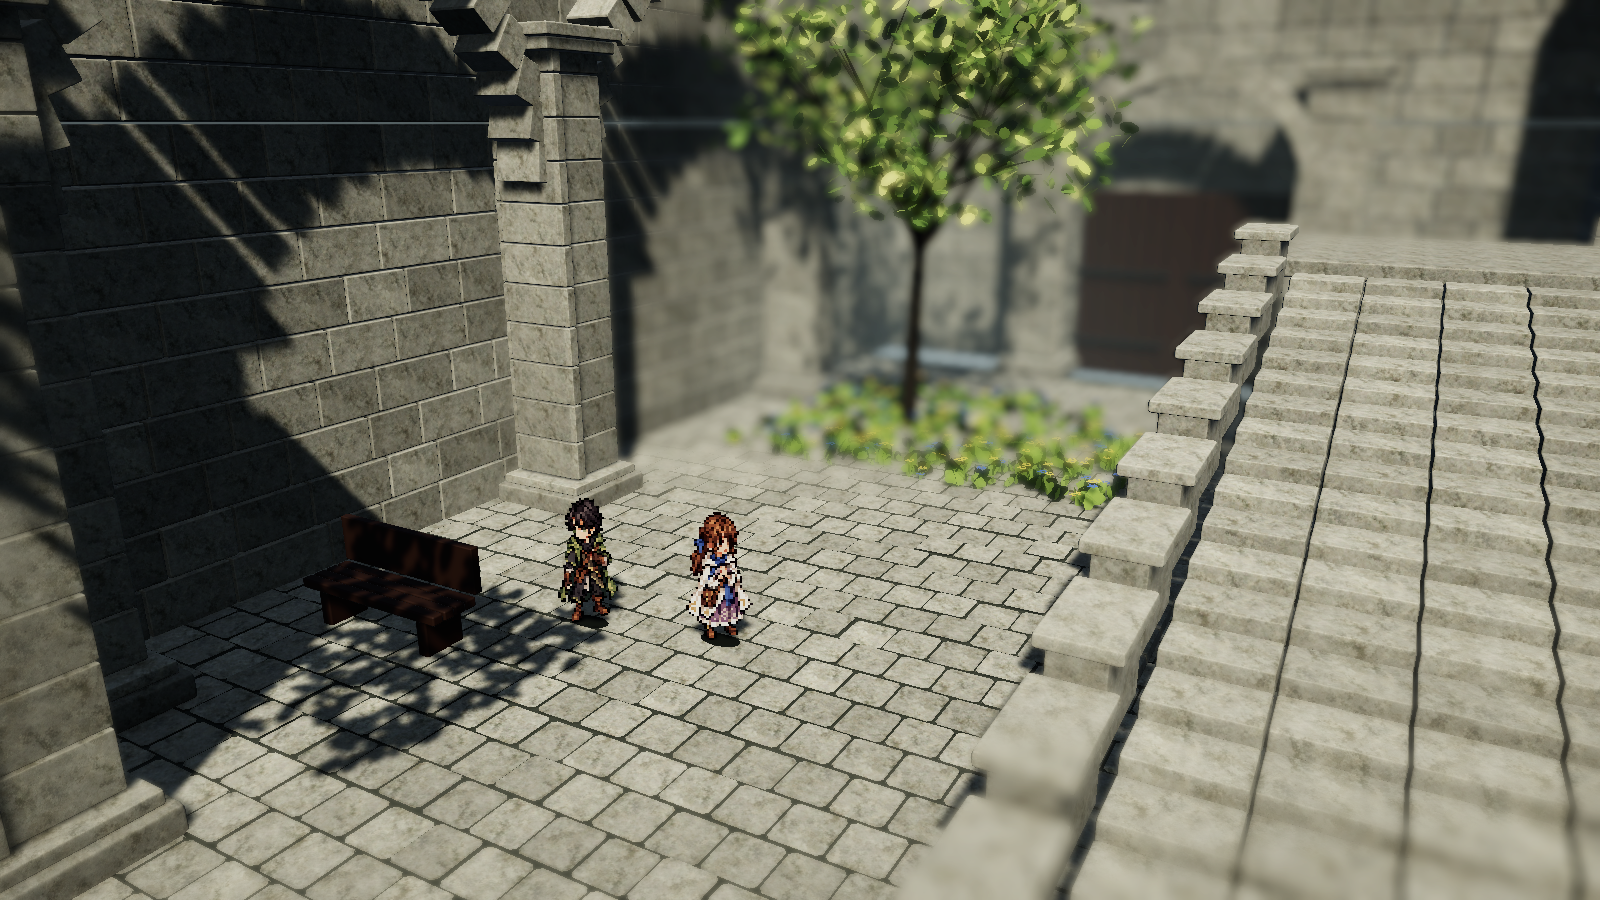
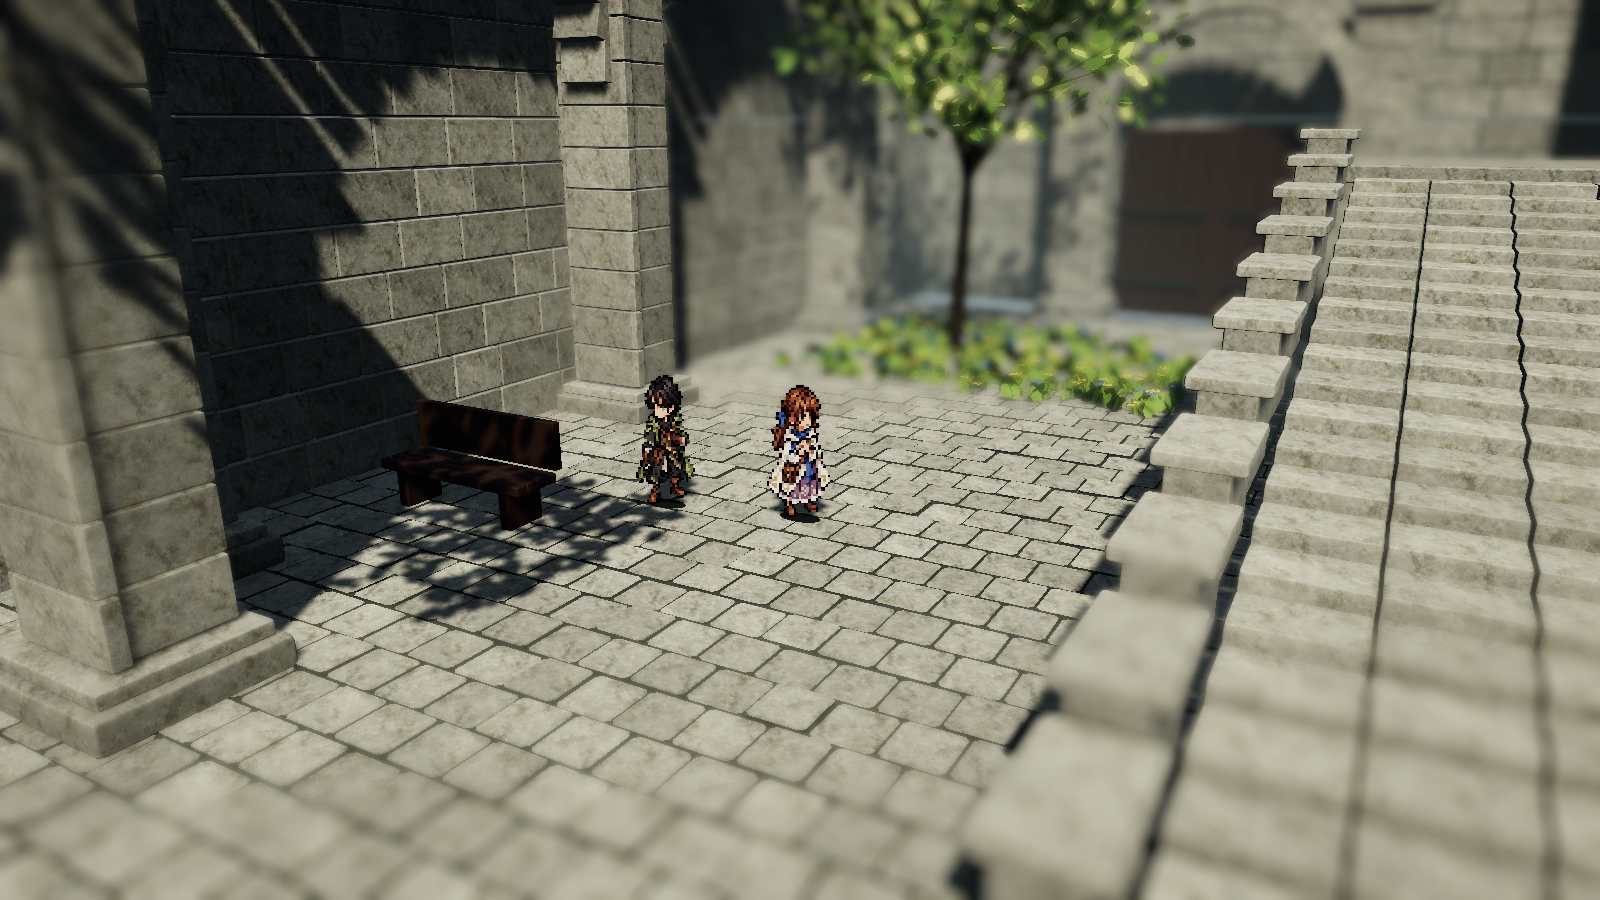
Add centered camera follow and four-direction movement to MVP03

diff --git a/Assets/MVP03/Scripts/PixelPilgrim.cs b/Assets/MVP03/Scripts/PixelPilgrim.cs
@@ -13,6 +13,8 @@ namespace MVP03
         private CharacterController controller;
         private Vector3 portraitRestPosition;
         private float walkTime;
+        private bool preferVertical;
+        private bool heldForward, heldBackward, heldLeft, heldRight;
 
         public void Configure(Camera camera, SpriteRenderer sprite)
         {
@@ -32,12 +34,7 @@ namespace MVP03
             Keyboard keys = Keyboard.current;
             if (keys == null || worldCamera == null) return;
 
-            Vector2 input = Vector2.zero;
-            if (keys.wKey.isPressed || keys.upArrowKey.isPressed) input.y += 1;
-            if (keys.sKey.isPressed || keys.downArrowKey.isPressed) input.y -= 1;
-            if (keys.aKey.isPressed || keys.leftArrowKey.isPressed) input.x -= 1;
-            if (keys.dKey.isPressed || keys.rightArrowKey.isPressed) input.x += 1;
-            input = Vector2.ClampMagnitude(input, 1);
+            Vector2 input = ReadCardinalInput(keys);
 
             Vector3 forward = Vector3.ProjectOnPlane(worldCamera.transform.forward, Vector3.up).normalized;
             Vector3 right = Vector3.ProjectOnPlane(worldCamera.transform.right, Vector3.up).normalized;
@@ -53,6 +50,31 @@ namespace MVP03
             else walkTime = 0f;
             portrait.transform.localPosition = portraitRestPosition +
                 Vector3.up * (walkTime == 0 ? 0 : Mathf.Abs(Mathf.Sin(walkTime)) * 0.045f);
+        }
+
+        private Vector2 ReadCardinalInput(Keyboard keys)
+        {
+            bool forward = keys.wKey.isPressed || keys.upArrowKey.isPressed;
+            bool backward = keys.sKey.isPressed || keys.downArrowKey.isPressed;
+            bool left = keys.aKey.isPressed || keys.leftArrowKey.isPressed;
+            bool right = keys.dKey.isPressed || keys.rightArrowKey.isPressed;
+            int horizontal = (right ? 1 : 0) - (left ? 1 : 0);
+            int vertical = (forward ? 1 : 0) - (backward ? 1 : 0);
+
+            if ((forward && !heldForward) || (backward && !heldBackward))
+                preferVertical = true;
+            if ((left && !heldLeft) || (right && !heldRight))
+                preferVertical = false;
+            heldForward = forward;
+            heldBackward = backward;
+            heldLeft = left;
+            heldRight = right;
+
+            // A newly pressed axis wins; releasing it resumes the other held direction.
+            // Opposite keys on the same axis cancel, and diagonals are never emitted.
+            if (horizontal != 0 && vertical != 0)
+                return preferVertical ? new Vector2(0, vertical) : new Vector2(horizontal, 0);
+            return new Vector2(horizontal, vertical);
         }
 
         private void LateUpdate()

diff --git a/Assets/MVP03/Editor/MVP03ReferenceBuilder.cs b/Assets/MVP03/Editor/MVP03ReferenceBuilder.cs
@@ -105,9 +105,28 @@ public static class MVP03ReferenceBuilder
         var volume=new GameObject("MVP03 optical focus and filmic exposure").AddComponent<Volume>();
         volume.isGlobal=true; volume.sharedProfile=Atmosphere();
         camera.gameObject.AddComponent<PixelFocus>().Configure(camera,UnityEngine.Object.FindFirstObjectByType<PixelPilgrim>().transform,volume);
+        ConfigureFollowCamera();
         EditorSceneManager.SaveScene(scene,Root+"/Scenes/MVP03_StainedGlassChapel.unity");
         AssetDatabase.SaveAssets();
         Debug.Log("Rebuilt MVP03: beveled masonry, leaf meshes, imported pixel travelers, dedicated SSAO and optical focus.");
+    }
+
+    public static void ConfigureFollowCamera()
+    {
+        Camera camera=Camera.main;
+        PixelPilgrim player=UnityEngine.Object.FindFirstObjectByType<PixelPilgrim>();
+        if(camera==null || player==null)throw new InvalidOperationException("Open the MVP03 courtyard first.");
+        var follow=camera.GetComponent<PixelFollowCamera>();
+        if(follow==null)follow=camera.gameObject.AddComponent<PixelFollowCamera>();
+        follow.Configure(player.transform);
+        var volume=UnityEngine.Object.FindFirstObjectByType<Volume>();
+        if(volume!=null && volume.sharedProfile.TryGet(out DepthOfField depth))
+        {
+            depth.focusDistance.Override(Vector3.Dot(player.transform.position+Vector3.up-camera.transform.position,camera.transform.forward));
+            EditorUtility.SetDirty(depth);
+        }
+        EditorUtility.SetDirty(follow);
+        EditorSceneManager.MarkSceneDirty(camera.gameObject.scene);
     }
 
     static void Wall(Batch b,Vector3 basePos,Vector3 size,bool alongX)

diff --git a/Assets/MVP03/Scripts/PixelFollowCamera.cs b/Assets/MVP03/Scripts/PixelFollowCamera.cs
@@ -1,0 +1,33 @@
+using UnityEngine;
+
+namespace MVP03
+{
+    // Follow after character movement, before sprite billboards and optical focus update.
+    [DefaultExecutionOrder(-100)]
+    [RequireComponent(typeof(Camera))]
+    public sealed class PixelFollowCamera : MonoBehaviour
+    {
+        [SerializeField] private Transform subject;
+        [SerializeField] private Vector3 offset;
+        [SerializeField] private float focusHeight = 1f;
+
+        public void Configure(Transform target)
+        {
+            subject = target;
+            Vector3 focus = subject.position + Vector3.up * focusHeight;
+            float distance = Mathf.Max(2f, Vector3.Dot(focus - transform.position, transform.forward));
+            // Retain the established viewing angle while putting the character at screen centre.
+            offset = Vector3.up * focusHeight - transform.forward * distance;
+            Follow();
+        }
+
+        private void LateUpdate() => Follow();
+
+        private void Follow()
+        {
+            if (subject == null) return;
+            transform.SetPositionAndRotation(subject.position + offset,
+                Quaternion.LookRotation(Vector3.up * focusHeight - offset, Vector3.up));
+        }
+    }
+}

diff --git a/Assets/MVP03/README.md b/Assets/MVP03/README.md
@@ -1,6 +1,6 @@
 # MVP03 | HD2D Church Courtyard
 
-Open `Scenes/MVP03_StainedGlassChapel.unity` and press Play. Move the light-clothed pixel character with WASD or the arrow keys. The dark-clothed companion stays in the courtyard and faces the camera.
+Open `Scenes/MVP03_StainedGlassChapel.unity` and press Play. Move the light-clothed pixel character with WASD or the arrow keys. Movement is limited to four directions relative to the camera; when two axes are held, the most recently pressed axis takes priority. Opposing keys on one axis cancel. The camera follows at a fixed angle and distance, keeping the character's torso at screen centre, including when climbing stairs. The dark-clothed companion stays in the courtyard and faces the camera.
 
 The courtyard is rebuilt around the supplied reference: close stone piers and a staircase frame a compact playable route. Beveled blocks, irregular pavers and carved arches use a weathered limestone albedo with normal relief. The `World Stone PBR` shader projects that material in world space so it retains the same scale on walls, stairs and pillars. Geometry is combined into saved mesh assets for a small number of renderers.
 
